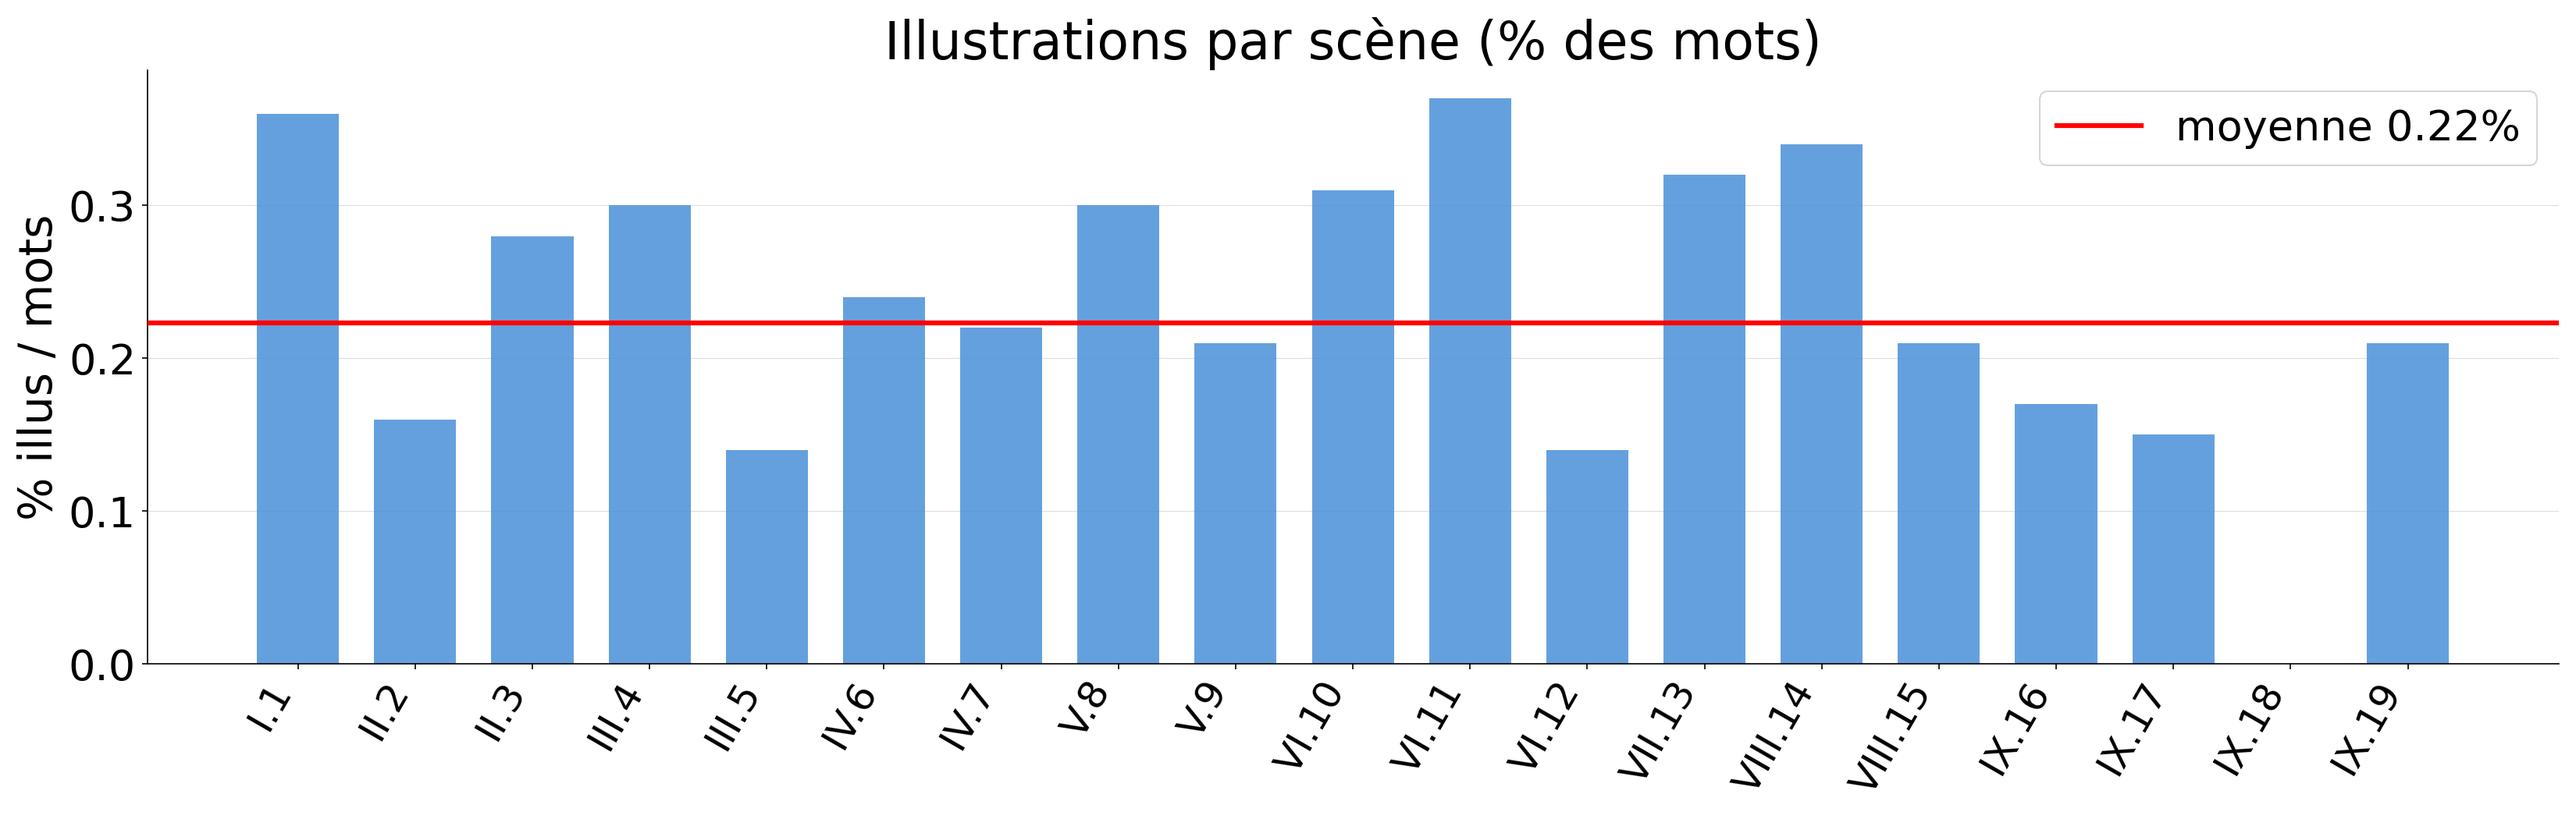
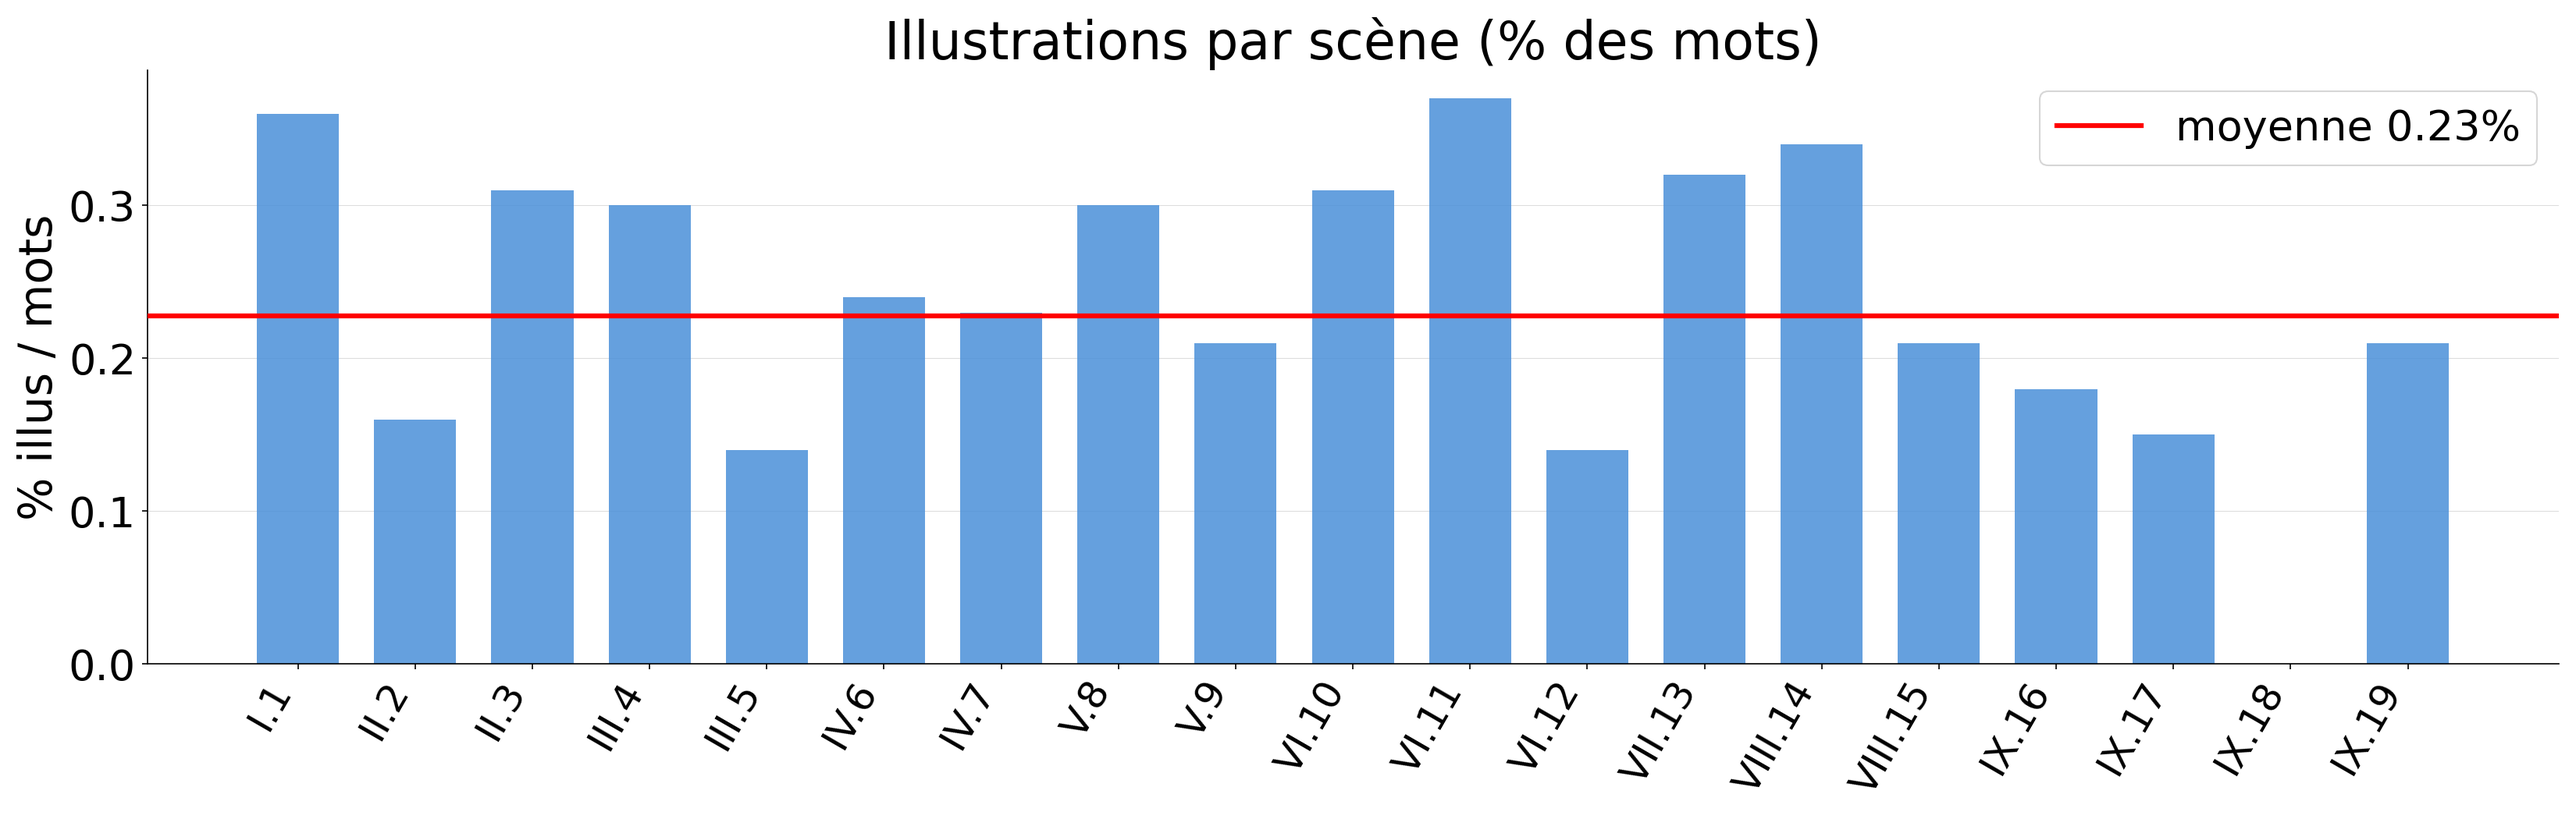
stats: fix illus count (+includegraphics, bare bwimage); add check_unreferenced_images.py; move 7 images to deprecated

Changed region(s): [[0.0624, 0.3657, 0.9988, 0.4267], [0.1873, 0.2133, 0.2497, 0.3048], [0.7803, 0.4571, 0.8115, 0.5181]]

diff --git a/check_unreferenced_images.py b/check_unreferenced_images.py
@@ -1,0 +1,83 @@
+"""
+check_unreferenced_images.py — List image files in iconography/ not referenced in any .tex file,
+and print all references with their file:line number.
+Run: python3 check_unreferenced_images.py
+"""
+
+import re
+import unicodedata
+from pathlib import Path
+
+ROOT = Path(__file__).parent
+
+tex_files = sorted(list((ROOT / "actes").glob("*.tex"))
+                   + list((ROOT / "figures").glob("*.tex")))
+
+# collect references with file:line
+refs: dict[str, list[str]] = {}  # basename (NFC) -> ["file:line", ...]
+for tex in tex_files:
+    for lineno, line in enumerate(tex.read_text(encoding="utf-8").splitlines(), 1):
+        if re.match(r'\s*%', line):
+            continue
+        for m in re.finditer(r'\{([^{}]+\.(?:jpg|jpeg|png))\}', line):
+            name = unicodedata.normalize('NFC', Path(m.group(1)).name)
+            refs.setdefault(name, []).append(
+                f"{tex.relative_to(ROOT)}:{lineno}")
+
+# all image files in iconography/
+all_images = sorted(
+    f for f in (ROOT / "iconography").rglob("*")
+    if f.suffix.lower() in {".jpg", ".jpeg", ".png"} and f.is_file()
+)
+
+# unreferenced
+unreferenced = [
+    f for f in all_images
+    if unicodedata.normalize('NFC', f.name) not in refs
+]
+
+print(f"── {len(all_images)} image files in iconography/")
+print(f"── {len(refs)} distinct referenced basenames")
+print(f"── {len(unreferenced)} unreferenced\n")
+
+if unreferenced:
+    print("UNREFERENCED:")
+    for p in unreferenced:
+        print(f"  {p.relative_to(ROOT)}")
+    print()
+
+# referenced basenames with no matching file in iconography/
+existing_names = {unicodedata.normalize('NFC', f.name) for f in all_images}
+missing = {name: locs for name, locs in refs.items() if name not in existing_names}
+if missing:
+    print("MISSING (referenced but not found in iconography/):")
+    for name, locs in sorted(missing.items()):
+        for loc in locs:
+            print(f"  {loc:50s}  {name}")
+    print()
+
+
+print("REFERENCES (file:line → image):")
+all_refs = [(loc, name) for name, locations in refs.items() for loc in locations]
+all_refs.sort(key=lambda x: (x[0].split(":")[0], int(x[0].split(":")[1])))
+for loc, name in all_refs:
+    print(f"  {loc:50s}  {name}")
+
+# ── figures/*.tex not referenced from any actes/*.tex ─────────────────────────
+actes_text = "\n".join(f.read_text(encoding="utf-8")
+                       for f in (ROOT / "actes").glob("*.tex"))
+actes_text = re.sub(r'(?m)^[^\S\n]*%.*', '', actes_text)
+
+referenced_figs = set()
+for m in re.finditer(r'\\iconographietex(?:pair)?\{([^}]+)\}(?:\{([^}]+)\})?', actes_text):
+    for g in filter(None, [m.group(1), m.group(2)]):
+        referenced_figs.add(g.strip())
+
+all_figs = sorted((ROOT / "figures").glob("*_fig.tex"))
+unused_figs = [f for f in all_figs
+               if f"figures/{f.name}" not in referenced_figs
+               and str(f.relative_to(ROOT)) not in referenced_figs]
+
+print(f"\n── FIGURES NOT INCLUDED IN DOCUMENT ({len(unused_figs)}/{len(all_figs)}):")
+for f in unused_figs:
+    print(f"  figures/{f.name}")

diff --git a/stats.py b/stats.py
@@ -15,7 +15,7 @@ ACTES_DIR = ROOT / "actes"
 BUILD     = ROOT / "build"
 OUT_FILE  = ROOT / "stats.md"
 
-ILLUS_TARGET =448  # target: 1 illustration every N words (overridable via --target)
+ILLUS_TARGET =439  # target: 1 illustration every N words (overridable via --target)
 
 TOC_MAIN   = BUILD / "tete_de_veau_ravigote.toc"
 TOC_TOTALE = BUILD / "tete_de_veau_ravigote_LA_TOTALE.toc"
@@ -144,13 +144,20 @@ def count_illus(text: str) -> int:
         for path_str in filter(None, [m.group(1), m.group(2)]):
             fig_path = ROOT / path_str
             if fig_path.exists():
-                total += len(re.findall(r"\\bwimage\b", fig_path.read_text(encoding="utf-8")))
+                fig_text = fig_path.read_text(encoding="utf-8")
+                total += len(re.findall(r"\\bwimage\b", fig_text))
+                total += len(re.findall(r"\\includegraphics\b", fig_text))
             else:
                 total += 1  # fallback if file not found
 
     # single-image commands count as 1 each
     for cmd in [r"\iconographiewrapfig", r"\iconographieinlineblock", r"\iconographieimg"]:
         total += len(re.findall(re.escape(cmd) + r"\b", text))
+
+    # bare \bwimage not inside an \iconographie* command
+    for line in text.splitlines():
+        if re.search(r"\\bwimage\b", line) and not re.search(r"\\iconographi\w+", line):
+            total += len(re.findall(r"\\bwimage\b", line))
 
     return total
 

diff --git a/stats.md b/stats.md
@@ -7,11 +7,11 @@ Mots = texte original uniquement (hors contenu des notes `\nf{}`).
 |----------:|:------|---:|----:|-----:|--------:|--------:|------:|-------:|--------------:|-------:|--------:|
 | I.1 | Une décharge d’un milliard de volts a… |   7 |  18 |   3 929 |   2.10% |   4.53% |    22 |  0.56% |            14 |  0.36% |  63.64% |
 | II.2 | Ça a officiellement commencé le jour où… |  25 |  32 |   8 528 |   4.57% |  20.23% |    32 |  0.38% |            14 |  0.16% |  43.75% |
-| II.3 | Ce même jour, en fin d’après-midi, on… |  57 |  36 |   8 684 |   4.65% |   5.65% |    53 |  0.61% |            24 |  0.28% |  45.28% |
+| II.3 | Ce même jour, en fin d’après-midi, on… |  57 |  36 |   8 684 |   4.65% |   5.65% |    53 |  0.61% |            27 |  0.31% |  50.94% |
 | III.4 | Quelques jours plus tard, les journaux ont… |  93 |  44 |  11 097 |   5.94% |  28.71% |    78 |  0.70% |            33 |  0.30% |  42.31% |
 | III.5 | Dans le fond de la pièce, il… | 137 |  36 |   8 467 |   4.53% |  43.11% |    32 |  0.38% |            12 |  0.14% |  37.50% |
 | IV.6 | Il y a ce qu’on appelle la… | 173 |  44 |  11 311 |   6.06% |  28.51% |    45 |  0.40% |            27 |  0.24% |  60.00% |
-| IV.7 | Depuis que mon ami Grégoire Lussier, ancien… | 217 |  34 |   8 365 |   4.48% |  30.70% |    43 |  0.51% |            18 |  0.22% |  41.86% |
+| IV.7 | Depuis que mon ami Grégoire Lussier, ancien… | 217 |  34 |   8 365 |   4.48% |  30.70% |    43 |  0.51% |            19 |  0.23% |  44.19% |
 | V.8 | Croyez-le ou non, mais Aymeric Jégou et… | 251 |  36 |   8 904 |   4.77% |  56.56% |    44 |  0.49% |            27 |  0.30% |  61.36% |
 | V.9 | Ce soir-là, alors même que les combats… | 287 |  44 |  10 812 |   5.79% |  31.34% |    56 |  0.52% |            23 |  0.21% |  41.07% |
 | VI.10 | J’ai tout juste eu le temps de… | 331 |  42 |  10 088 |   5.40% |  35.32% |    92 |  0.91% |            31 |  0.31% |  33.70% |
@@ -20,13 +20,13 @@ Mots = texte original uniquement (hors contenu des notes `\nf{}`).
 | VII.13 | Et on y est allé, figurez-vous, car… | 457 |  16 |   2 852 |   1.53% |  56.21% |    13 |  0.46% |             9 |  0.32% |  69.23% |
 | VIII.14 | Trois quarts d’heure plus tard, après avoir… | 473 |  36 |   9 794 |   5.24% |   0.00% |    56 |  0.57% |            33 |  0.34% |  58.93% |
 | VIII.15 | Les chaussures à semelle de cuir sont… | 509 |  28 |   6 822 |   3.65% |  52.49% |    55 |  0.81% |            14 |  0.21% |  25.45% |
-| IX.16 | Cette nuit-là, j’ai fait des rêves étranges… | 537 | 124 |  33 436 |  17.90% |  20.84% |   248 |  0.74% |            56 |  0.17% |  22.58% |
+| IX.16 | Cette nuit-là, j’ai fait des rêves étranges… | 537 | 124 |  33 436 |  17.90% |  20.84% |   248 |  0.74% |            60 |  0.18% |  24.19% |
 | IX.17 | Une porte d’ascenseur venait de s’ouvrir, non… | 661 |  34 |  10 408 |   5.57% |   3.06% |    67 |  0.64% |            16 |  0.15% |  23.88% |
 | IX.18 | Comme beaucoup d’urgentistes souffrant de handicap visuel… | 695 |  26 |   7 373 |   3.95% |  48.11% |    10 |  0.14% |             — |      — |   0.00% |
 | IX.19 | Il est toujours extrêmement douloureux de mettre… | 721 | 204 |   6 138 |   3.29% |  25.25% |    23 |  0.37% |            13 |  0.21% |  56.52% |
-| **Total** | |  |  | **186 743** | **100%** | **29.41%** | **1078** | **0.58%** | **417** | **0.22%** | **38.68%** |
+| **Total** | |  |  | **186 743** | **100%** | **29.41%** | **1078** | **0.58%** | **425** | **0.23%** | **39.42%** |
 
-![Illustrations par scène](stats_illus_chart.png?v=22755b9f)
+![Illustrations par scène](stats_illus_chart.png?v=14b82826)
 
 # Statistiques par acte (avant découpage)
 
@@ -36,19 +36,19 @@ Mots = texte original uniquement (hors contenu des notes `\nf{}`).
 | Acte | p. | pp. | Mots | % livre | Notes | % mots | Illustrations | % mots | % dial. |
 |-----:|---:|----:|-----:|--------:|------:|-------:|--------------:|-------:|--------:|
 | I    |   3 |  14 |   3 929 |   2.10% |    22 |  0.56% |            14 |  0.36% |   4.53% |
-| II   |  17 |  56 |  17 212 |   9.22% |    85 |  0.49% |            38 |  0.22% |  12.87% |
+| II   |  17 |  56 |  17 212 |   9.22% |    85 |  0.49% |            41 |  0.24% |  12.87% |
 | III  |  73 |  68 |  19 564 |  10.48% |   110 |  0.56% |            45 |  0.23% |  34.94% |
-| IV   | 141 |  64 |  19 676 |  10.54% |    88 |  0.45% |            45 |  0.23% |  29.44% |
+| IV   | 141 |  64 |  19 676 |  10.54% |    88 |  0.45% |            46 |  0.23% |  29.44% |
 | V    | 205 |  66 |  19 716 |  10.56% |   100 |  0.51% |            50 |  0.25% |  42.73% |
 | VI   | 271 | 106 |  29 823 |  15.97% |   201 |  0.67% |            84 |  0.28% |  46.62% |
 | VII  | 377 |  12 |   2 852 |   1.53% |    13 |  0.46% |             9 |  0.32% |  56.21% |
 | VIII | 389 |  54 |  16 616 |   8.90% |   111 |  0.67% |            47 |  0.28% |  21.55% |
-| IX   | 443 | 184 |  57 355 |  30.71% |   348 |  0.61% |            85 |  0.15% |  21.59% |
-| **Total** |  |  | **186 743** | **100%** | **1078** | **0.58%** | **417** | **0.22%** | **29.41%** |
+| IX   | 443 | 184 |  57 355 |  30.71% |   348 |  0.61% |            89 |  0.16% |  21.59% |
+| **Total** |  |  | **186 743** | **100%** | **1078** | **0.58%** | **425** | **0.23%** | **29.41%** |
 
 ## Estimation illustrations restantes
 
-Cible : **1 illustration tous les 448 mots** (186 743 mots → **417** illustrations).  
-Actuellement **417** — il en manque **0** — **100.0 %** réalisé.
+Cible : **1 illustration tous les 439 mots** (186 743 mots → **425** illustrations).  
+Actuellement **425** — il en manque **0** — **100.0 %** réalisé.
 
-Sous-illustrées (< 0.7× la cible) : IX.18 (0/16.5)
+Sous-illustrées (< 0.7× la cible) : IX.18 (0/16.8)
